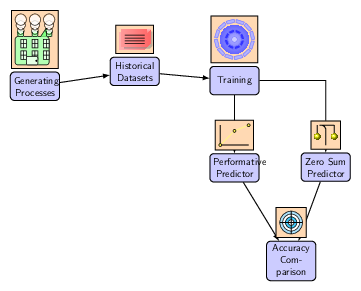
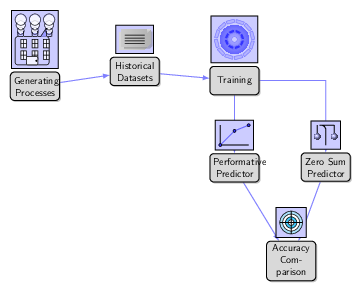
Getting the opposite of what I expected :)

diff --git a/docs/diagram.tex b/docs/diagram.tex
@@ -1,11 +1,20 @@
 \documentclass[tikz,border=10pt]{standalone}
 \usetikzlibrary{shapes, arrows.meta, positioning, shadows, patterns, backgrounds}
 
-% Define styles globally
+% Define styles globally to match the style of the first slide
 \tikzset{
-    process/.style={draw, thick, rounded corners, fill=blue!20, text width=1.5cm, align=center, minimum height=1cm, font=\sffamily},
-    arrow/.style={-Latex, thick, color=black},
-    pictogram/.style={draw, thick, fill=orange!30, minimum size=1cm}
+    process/.style={
+        draw, thick, rounded corners,
+        fill=gray!30, % Adjusted to match the grey theme of the first slide
+        text width=1.5cm, align=center,
+        minimum height=1cm, font=\sffamily, % Ensuring font family is consistent
+        drop shadow={opacity=0.5, shadow xshift=0.05cm, shadow yshift=-0.05cm} % Adding shadow to match the first slide
+    },
+    arrow/.style={
+        -Latex, thick,
+        color=blue!50 % Changed to a blue shade to match the theme
+    },
+    pictogram/.style={draw, thick, fill=blue!20, minimum size=1cm}
 }
 
 \pgfdeclarelayer{background}
@@ -15,21 +24,21 @@
 \newcommand{\dataGenPictogram}{
     \begin{tikzpicture}
         % Refined factory building with more details and better proportions
-        \draw[fill=green!30, rounded corners=0.1cm] (-0.6,-0.4) rectangle (0.6,0.6);
+        \draw[fill=blue!20, rounded corners=0.1cm] (-0.6,-0.4) rectangle (0.6,0.6);
         % Windows with crossbars and improved placement
         \foreach \x/\y in {-0.4/0.2, 0/0.2, 0.4/0.2, -0.4/-0.2, 0/-0.2, 0.4/-0.2} {
-            \draw[fill=green!10] (\x,\y) rectangle (\x+0.2,\y+0.3);
+            \draw[fill=blue!5] (\x,\y) rectangle (\x+0.2,\y+0.3);
             \draw (\x,\y+0.15) -- (\x+0.2,\y+0.15);
             \draw (\x+0.1,\y) -- (\x+0.1,\y+0.3);
         }
         % Funnel with a more defined shape and better positioning
-        \draw[fill=green!50] (0.3,0.6) -- (0.5,0.9) -- (0.7,0.6);
+        \draw[fill=blue!40] (0.3,0.6) -- (0.5,0.9) -- (0.7,0.6);
         % Door with a frame, handle, and better proportions
-        \draw[fill=green!10, rounded corners=0.05cm] (-0.2,-0.4) rectangle (0.2,-0.1);
+        \draw[fill=blue!5, rounded corners=0.05cm] (-0.2,-0.4) rectangle (0.2,-0.1);
         \draw[fill=black] (0.15,-0.25) circle [radius=0.02];
         % Smoke stacks with a gradient and smoke, with improved design
         \foreach \x in {-0.5, 0, 0.5} {
-            \draw[top color=green!50, bottom color=green!30, rounded corners=0.05cm] (\x,0.6) rectangle (\x+0.2,0.8);
+            \draw[top color=blue!40, bottom color=blue!20, rounded corners=0.05cm] (\x,0.6) rectangle (\x+0.2,0.8);
             \draw[fill=white, opacity=0.8] (\x+0.1,0.8) circle [radius=0.12];
             \draw[fill=white, opacity=0.8] (\x+0.1,1) circle [radius=0.16];
             \draw[fill=white, opacity=0.8] (\x+0.1,1.2) circle [radius=0.2];
@@ -40,10 +49,10 @@
 \newcommand{\histDataPictogram}{
     \begin{tikzpicture}
         % Refined stack of papers with more realistic look and shadow for depth
-        \shade[right color=red!50, left color=red!30] (0,0) -- (0.9,0) -- (1,0.1) -- (1,0.6) -- (0,0.6) -- cycle;
-        \shade[right color=red!60, left color=red!40, drop shadow={opacity=0.5}] (0.1,0.1) -- (1,0.1) -- (1.1,0.2) -- (1.1,0.7) -- (0.1,0.7) -- cycle;
+        \shade[right color=gray!50, left color=gray!30] (0,0) -- (0.9,0) -- (1,0.1) -- (1,0.6) -- (0,0.6) -- cycle;
+        \shade[right color=gray!60, left color=gray!40, drop shadow={opacity=0.5}] (0.1,0.1) -- (1,0.1) -- (1.1,0.2) -- (1.1,0.7) -- (0.1,0.7) -- cycle;
         % Curled corner on top paper with gradient for a 3D effect
-        \shade[bottom color=red!50, top color=red!30] (1,0.6) -- (1.1,0.7) -- (1,0.7) -- cycle;
+        \shade[bottom color=gray!50, top color=gray!30] (1,0.6) -- (1.1,0.7) -- (1,0.7) -- cycle;
         % Lines on top paper to represent text with better spacing
         \foreach \y in {0.2,0.3,...,0.6}
             \draw (0.2,\y) -- (0.9,\y);
@@ -57,43 +66,42 @@
         \foreach \i in {0,30,...,330} {
             % Gear teeth with a more refined shape
             \draw[fill=blue!30, draw=blue!50] (\i:0.6) -- (\i:0.7) arc (\i:\i+25:0.7) -- (\i+25:0.6) -- cycle;
-        }
-        % Inner circle with a gradient fill for a more realistic gear appearance
-        \shade[inner color=blue!30, outer color=blue!60] (0,0) circle [radius=0.5];
-        % Additional inner details to suggest complexity with improved aesthetics
-        \foreach \i in {0,45,...,315} {
+            }
+            % Inner circle with a gradient fill for a more realistic gear appearance
+            \shade[inner color=blue!30, outer color=blue!60] (0,0) circle [radius=0.5];
+            % Additional inner details to suggest complexity with improved aesthetics
+            \foreach \i in {0,45,...,315} {
             \draw[fill=blue!80, draw=blue!50] (\i:0.25) -- (\i:0.35) arc (\i:\i+40:0.35) -- (\i+40:0.25) -- cycle;
-        }
-        % Central bolt for a more realistic and complete gear design
-        \draw[fill=blue!20, draw=blue!50] (0,0) circle [radius=0.1];
-    \end{tikzpicture}
-    }
-
-
+            }
+            % Central bolt for a more realistic and complete gear design
+            \draw[fill=blue!20, draw=blue!50] (0,0) circle [radius=0.1];
+            \end{tikzpicture}
+            }
+            
 \newcommand{\perfPredPictogram}{
 \begin{tikzpicture}
-    % Axes
-    \draw[thick] (0,0) -- (1,0);
-    \draw[thick] (0,0) -- (0,0.7);
-    % Graph line
-    \draw[thick, yellow!60] (0,0) -- (0.5,0.5) -- (1,0.7);
-    % Points on the graph line
-    \draw[fill=yellow!80] (0,0) circle [radius=0.05];
-    \draw[fill=yellow!80] (0.5,0.5) circle [radius=0.05];
-    \draw[fill=yellow!80] (1,0.7) circle [radius=0.05];
+% Axes
+\draw[thick] (0,0) -- (1,0);
+\draw[thick] (0,0) -- (0,0.7);
+% Graph line
+\draw[thick, blue!60] (0,0) -- (0.5,0.5) -- (1,0.7);
+% Points on the graph line
+\draw[fill=blue!80] (0,0) circle [radius=0.05];
+\draw[fill=blue!80] (0.5,0.5) circle [radius=0.05];
+\draw[fill=blue!80] (1,0.7) circle [radius=0.05];
 \end{tikzpicture}
 }
 
 \newcommand{\zeroSumPictogram}{
 \begin{tikzpicture}
-    % Enhanced stand and balance beam design
-    \draw[thick, rounded corners=1ex] (0.5,0) -- (0.5,0.7) -- (0.2,0.7) -- (0.8,0.7);
-    % Chains hanging from the balance beam
-    \draw[thick] (0.2,0.7) -- (0.2,0.3);
-    \draw[thick] (0.8,0.7) -- (0.8,0.3);
-    % Golden bowls design
-    \shade[ball color=yellow] (0.2,0.3) circle [radius=0.1];
-    \shade[ball color=yellow] (0.8,0.3) circle [radius=0.1];
+% Enhanced stand and balance beam design
+\draw[thick, rounded corners=1ex] (0.5,0) -- (0.5,0.7) -- (0.2,0.7) -- (0.8,0.7);
+% Chains hanging from the balance beam
+\draw[thick] (0.2,0.7) -- (0.2,0.3);
+\draw[thick] (0.8,0.7) -- (0.8,0.3);
+% Scales bowls design
+\shade[ball color=blue!30] (0.2,0.3) circle [radius=0.1];
+\shade[ball color=blue!30] (0.8,0.3) circle [radius=0.1];
 \end{tikzpicture}
 }
 
@@ -109,6 +117,7 @@
     \draw[thick] (0.1,0.5) -- (0.9,0.5);
 \end{tikzpicture}
 }
+
 
 \begin{document}
 \begin{tikzpicture}[node distance=2cm and 2cm, auto]

diff --git a/training/train.py b/training/train.py
@@ -9,6 +9,8 @@ import os
 import random
 import logging
 import json
+import matplotlib.pyplot as plt
+from tqdm import tqdm
 from model.network import initialize_components, ActionPredictor
 from model.utils import (
     set_seed,
@@ -17,6 +19,7 @@ from model.utils import (
     strictly_proper_scoring_rule,
     validate_model,
     save_model,
+    calculate_ece,
 )
 
 # Load configuration
@@ -33,7 +36,6 @@ BATCH_SIZE = config["BATCH_SIZE"]
 VALIDATION_SPLIT = config["VALIDATION_SPLIT"]
 NUM_EPISODES = config["NUM_EPISODES"]
 EPISODE_LENGTH = config["EPISODE_LENGTH"]
-EARLY_STOPPING_PATIENCE = config["EARLY_STOPPING_PATIENCE"]
 MODEL_DIR = config["MODEL_DIR"]
 
 # Configure logging
@@ -63,16 +65,18 @@ def train_performative_model(
     num_epochs=NUM_EPOCHS,
 ):
     best_loss = float("inf")
-    early_stopping_patience = 3
-    patience_counter = 0
 
-    for epoch in range(num_epochs):
+    for epoch in tqdm(range(num_epochs)):
         model.train()
         running_loss = 0.0
         for inputs, actions in trainloader:
             inputs, actions = inputs.to(device), actions.to(device)
             optimizer.zero_grad()
             outputs = model(inputs)
+            probabilities = torch.nn.functional.softmax(outputs, dim=1)
+            strictly_proper_scoring_rule(
+                probabilities, actions, actions.max().item() + 1
+            )
             loss = criterion(outputs, actions)
             loss.backward()
             optimizer.step()
@@ -83,13 +87,8 @@ def train_performative_model(
 
         if val_loss < best_loss:
             best_loss = val_loss
-            patience_counter = 0
+
             save_model(model, "best_performative_model.pth")
-        else:
-            patience_counter += 1
-            if patience_counter >= early_stopping_patience:
-                logging.info("Early stopping triggered")
-                break
 
         scheduler.step(val_loss)
         save_model(model, f"performative_model_epoch_{epoch+1}.pth")
@@ -99,7 +98,7 @@ def train_performative_model(
 def train_zero_sum_models(
     model_1, model_2, trainloader, optimizer_1, optimizer_2, num_epochs=NUM_EPOCHS
 ):
-    for epoch in range(num_epochs):
+    for epoch in tqdm(range(num_epochs)):
         zerosum_running_score_1 = 0.0
         zerosum_running_score_2 = 0.0
         for inputs, actions in trainloader:
@@ -192,6 +191,24 @@ def main():
         zerosum_optimizer_1,
         zerosum_optimizer_2,
     )
+
+    inputs, labels = next(iter(valloader))
+
+    inputs, labels = inputs.to(device), labels.to(device)
+
+    ece_performative = calculate_ece(performative_model(inputs), labels)
+    ece_zerosum_1 = calculate_ece(zerosum_model_1(inputs), labels)
+    ece_zerosum_2 = calculate_ece(zerosum_model_2(inputs), labels)
+
+    # Plot ECE values
+    plt.figure(figsize=(10, 6))
+    plt.bar(
+        ["Performative Model", "Zero Sum Model 1", "Zero Sum Model 2"],
+        [ece_performative.item(), ece_zerosum_1.item(), ece_zerosum_2.item()],
+    )
+    plt.title("Expected Calibration Error for Each Model")
+    plt.ylabel("ECE")
+    plt.savefig("results/ece_plot.png")
 
 
 if __name__ == "__main__":

diff --git a/training/model/utils.py b/training/model/utils.py
@@ -48,3 +48,24 @@ def set_seed(seed):
     torch.manual_seed(seed)
     if torch.cuda.is_available():
         torch.cuda.manual_seed_all(seed)
+
+
+def calculate_ece(outputs, labels, n_bins=10):
+    bin_boundaries = torch.linspace(0, 1, n_bins + 1)
+    bin_lowers = bin_boundaries[:-1]
+    bin_uppers = bin_boundaries[1:]
+
+    softmaxes = torch.nn.functional.softmax(outputs, dim=1)
+    confidences, predictions = torch.max(softmaxes, 1)
+    accuracies = predictions.eq(labels)
+
+    ece = torch.zeros(1, device=outputs.device)
+    for bin_lower, bin_upper in zip(bin_lowers, bin_uppers):
+        in_bin = confidences.gt(bin_lower.item()) * confidences.le(bin_upper.item())
+        prop_in_bin = in_bin.float().mean()
+        if prop_in_bin.item() > 0:
+            accuracy_in_bin = accuracies[in_bin].float().mean()
+            avg_confidence_in_bin = confidences[in_bin].mean()
+            ece += torch.abs(avg_confidence_in_bin - accuracy_in_bin) * prop_in_bin
+
+    return ece

diff --git a/training/test_action_predictor.py b/training/test_action_predictor.py
@@ -3,7 +3,7 @@ import torch
 from torch.utils.data import random_split
 from historical_datasets import HistoricalDataset, HistoricalDatasetConfig
 from model.network import ActionPredictor
-from model.utils import strictly_proper_scoring_rule
+from model.utils import strictly_proper_scoring_rule, calculate_ece
 
 
 @pytest.fixture
@@ -357,3 +357,13 @@ def test_private_information(initialized_models, mock_data, private_mock_data):
     assert torch.mean(outputs_1_private) > torch.mean(
         outputs_2_public
     ), "Model with private information should have better predictive capabilities"
+
+
+def test_ece(initialized_models, mock_data):
+    model_1, model_2 = initialized_models
+    inputs, labels = mock_data
+    outputs_1 = model_1(inputs)
+    outputs_2 = model_2(inputs)
+    ece_1 = calculate_ece(outputs_1, labels)
+    ece_2 = calculate_ece(outputs_2, labels)
+    print(f"ECE for model 1: {ece_1.item()}, ECE for model 2: {ece_2.item()}")
